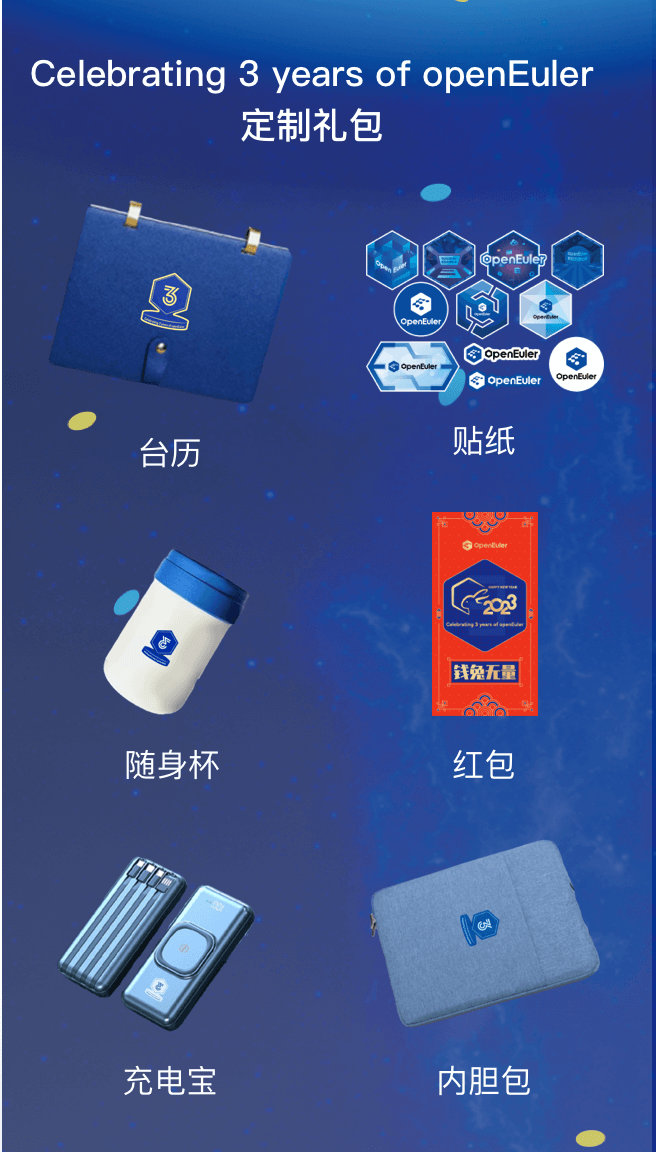
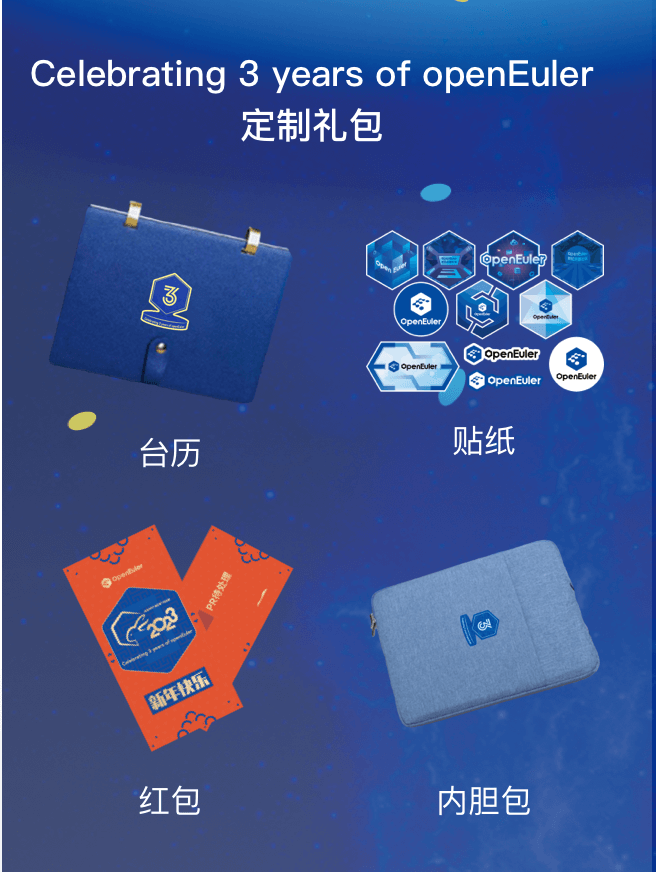
fix:峰会页面新增三周年浮窗入口、周年礼物图片更新

diff --git a/app/.vitepress/src/views/summit/summit2022/TheSummit.vue b/app/.vitepress/src/views/summit/summit2022/TheSummit.vue
@@ -1,5 +1,6 @@
 <script setup lang="ts">
 import { computed, onMounted, ref } from 'vue';
+import { useRouter } from 'vitepress';
 import { useCommon } from '@/stores/common';
 import AOS from 'aos';
 
@@ -9,8 +10,6 @@ import LinkPanel from '@/components/LinkPanel.vue';
 import SummitBanner from './components/SummitBanner.vue';
 // import SummitLive from './components/SummitLive.vue';
 
-// import banner from '@/assets/category/summit/summit2022/banner.jpg';
-// import bannerMo from '@/assets/category/summit/summit2022/banner-mo.png';
 import liveLight from '@/assets/category/summit/summit2022/live.png';
 import liveDark from '@/assets/category/summit/summit2022/live-dark.png';
 import atom from '@/assets/category/summit/summit2022/logo/atom.png';
@@ -39,10 +38,12 @@ import zhongguan from '@/assets/category/summit/summit2022/logo/zhongguan.png';
 import zhongguanDark from '@/assets/category/summit/summit2022/logo/zhongguan-dark.png';
 import intel from '@/assets/category/summit/summit2022/logo/intel.png';
 import intelDark from '@/assets/category/summit/summit2022/logo/intel-dark.png';
+import celebratingEntryImg from '@/assets/category/summit/summit2022/celebrating-entry.png';
 
 import IconTime from '~icons/app/icon-time.svg';
 
 const commonStore = useCommon();
+const router = useRouter();
 const liveImg = computed(() =>
   commonStore.theme === 'light' ? liveLight : liveDark
 );
@@ -60,7 +61,7 @@ const summitData: any = {
     liveData1: [
       {
         liveId: 12257,
-        liveTestId: 12260,
+        liveTestId: 12250,
         id: 0,
         name: '操作系统产业峰会',
       },
@@ -1142,6 +1143,9 @@ const summitData: any = {
 };
 const tabType = ref(['main', 'main', 'main']);
 const otherTabType = ref([0, 0, 0]);
+function clickEntry() {
+  router.go('/zh/celebrating/');
+}
 // const timeContent = ref(0);
 onMounted(() => {
   AOS.init({
@@ -1153,15 +1157,6 @@ onMounted(() => {
 });
 </script>
 <template>
-  <!-- <div class="banner">
-    <div
-      class="summit-banner-pc"
-      :style="`background-image:url(${bannerInfo.pc_banner}) ;`"
-    ></div>
-    <div class="summit-banner-mo">
-      <img :src="bannerInfo.mo_banner" alt="" />
-    </div>
-  </div> -->
   <SummitBanner />
   <AppContext>
     <div class="detail">
@@ -1169,16 +1164,12 @@ onMounted(() => {
     </div>
     <!-- <div class="liver">
       <h3 class="titleBar">{{ summitData.liver.title }}</h3>
-      <ClientOnly
-        ><SummitLive
+      <ClientOnly>
+        <SummitLive
           :live-data="summitData.liver.liveData1"
           class-name="odd2022"
-      />
-      <SummitLive
-          :live-data="summitData.liver.liveData2"
-          class-name="odd2022"
-      />
-    </ClientOnly>
+        />
+      </ClientOnly>
     </div> -->
     <div class="agenda">
       <h3>{{ summitData.agenda.title }}</h3>
@@ -1273,6 +1264,13 @@ onMounted(() => {
           >{{ item.name }}</a
         >
       </div>
+    </div>
+    <div class="celebrating-img" @click="clickEntry">
+      <img
+        :src="celebratingEntryImg"
+        alt=""
+        title="下载体验openEuler&#10;赢开源三周年纪念礼包！"
+      />
     </div>
   </AppContext>
 </template>
@@ -1727,6 +1725,19 @@ onMounted(() => {
           margin-top: var(--o-spacing-h8);
         }
       }
+    }
+  }
+}
+.celebrating-img {
+  position: fixed;
+  left: 50px;
+  bottom: 120px;
+  cursor: pointer;
+  z-index: 10;
+  img {
+    height: 79px;
+    @media screen and (max-width: 768px) {
+      height: 59px;
     }
   }
 }

diff --git a/app/.vitepress/src/views/summit/summit2022/components/SummitLive.vue b/app/.vitepress/src/views/summit/summit2022/components/SummitLive.vue
@@ -48,6 +48,8 @@ function creatUserId(liveId: number) {
   userName = returnId;
   liveUrl.value = `https://vhall.huawei.com/v2/watch/${liveId}?lang=zh&thirdId=${userName}`;
 }
+const state = ref(-1);
+const height = ref(800);
 function messageEvent() {
   window.addEventListener(
     'message',
@@ -58,10 +60,24 @@ function messageEvent() {
       } catch (e) {
         data = event.data;
       }
-      console.log('收到' + event.origin + '消息:' + data);
+      // data.state=2,直播结束
+      setHeight(data);
+      console.log(state.value, '收到', data);
+      // console.log('收到' + event.origin + '消息:' + data);
     },
     false
   );
+  // 移动600
+  // state=0,
+  // export const getH = (domWidth, cutVal = 352) => {
+  // const Width = domWidth || document.body.getBoundingClientRect().width
+  // const playerBoxW = Width - cutVal
+  // const playerBoxH = playerBoxW / 16 * 9 + 40 + 'px'
+  // return playerBoxH}
+
+  // export const sendMessage = (domWidth, cutVal, targetOrigin = origin) => {
+  // const Height = getH(domWidth, cutVal)
+  // top.postMessage(Height, '*')}
 }
 onMounted(async () => {
   AOS.init({
@@ -70,7 +86,9 @@ onMounted(async () => {
     delay: 100,
   });
   isTest.value = window.location.host.includes('test.osinfra');
-  creatUserId(isTest.value ? renderData[0].liveTestId : renderData[0].liveId);
+  creatUserId(
+    isTest.value ? renderData[0].liveTestId : renderData[0].liveTestId
+  );
   messageEvent();
 });
 
@@ -78,11 +96,20 @@ onMounted(async () => {
 // const ActiveBg = `url(${liveActiveBg})`;
 
 const liveRoom = ref(
-  isTest.value ? renderData[0].liveTestId : renderData[0].liveId
+  isTest.value ? renderData[0].liveTestId : renderData[0].liveTestId
 );
 const selectliveChange = (val: number): void => {
   creatUserId(val);
 };
+// 判断是手机端还是pc端
+function setHeight(data: any) {
+  const Width = document.body.getBoundingClientRect().width;
+  if (Width < 768 && state.value === 0) {
+    height.value = 600;
+  } else if (Width > 768 && data.height) {
+    height.value = data.height;
+  }
+}
 </script>
 
 <template>
@@ -104,7 +131,7 @@ const selectliveChange = (val: number): void => {
     </div>
     <iframe
       ref="livePage"
-      height="740"
+      :height="height"
       allow="camera *;microphone *;"
       border="0"
       scolling="no"

diff --git a/app/.vitepress/src/views/celebrating/TheCelebrating.vue b/app/.vitepress/src/views/celebrating/TheCelebrating.vue
@@ -276,6 +276,10 @@ function clickMask() {
         line-height: var(--o-line-height-h5);
         color: var(--o-color-text1);
         font-weight: 500;
+        @media (max-width: 1100px) {
+          font-size: var(--o-font-size-text);
+          line-height: var(--o-line-height-text);
+        }
       }
     }
     .right {
@@ -290,6 +294,7 @@ function clickMask() {
         padding: 9px 55px;
         color: #fff;
         @media (max-width: 1100px) {
+          margin-right: 0px;
           padding: 3px 14px;
           font-size: var(--o-font-size-tip);
         }
@@ -300,6 +305,9 @@ function clickMask() {
       position: absolute;
       right: var(--o-spacing-h2);
       bottom: 0;
+      @media (max-width: 1100px) {
+        right: 5vw;
+      }
     }
   }
   .gift {
